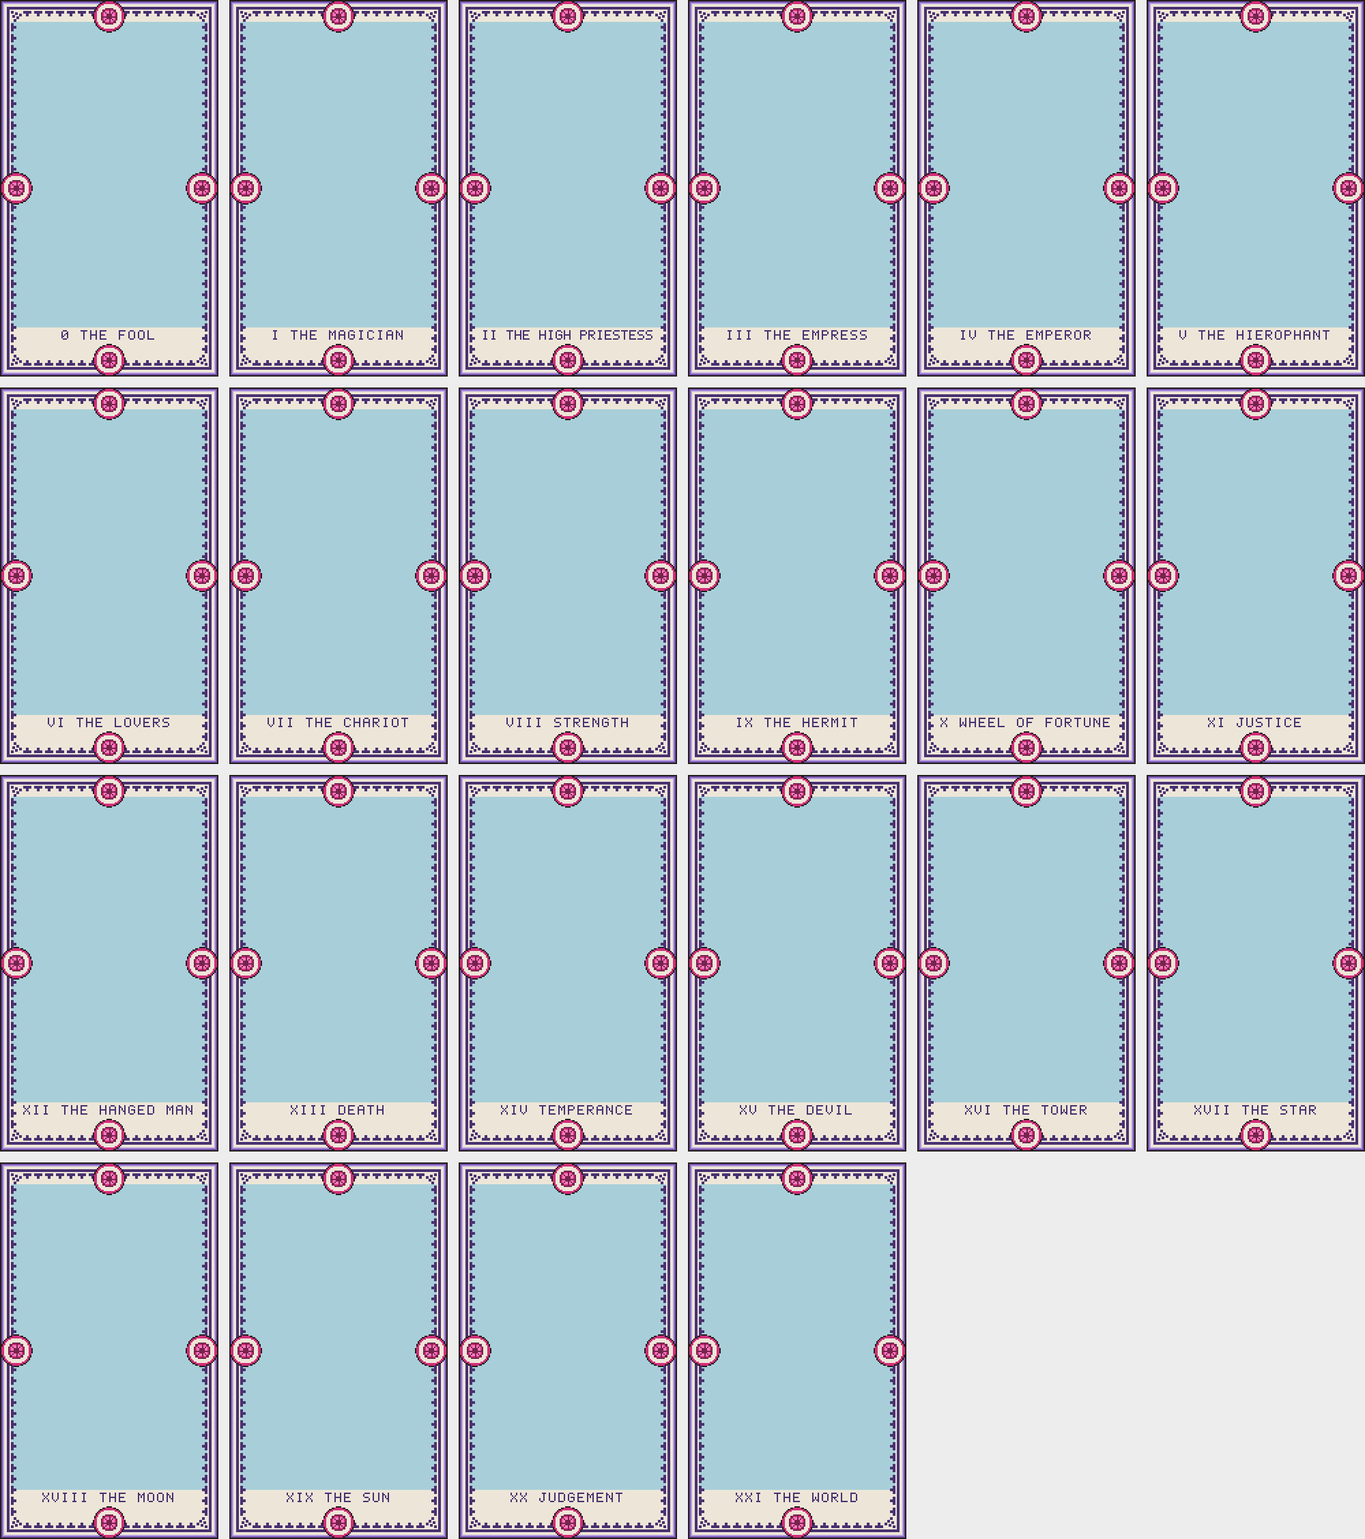
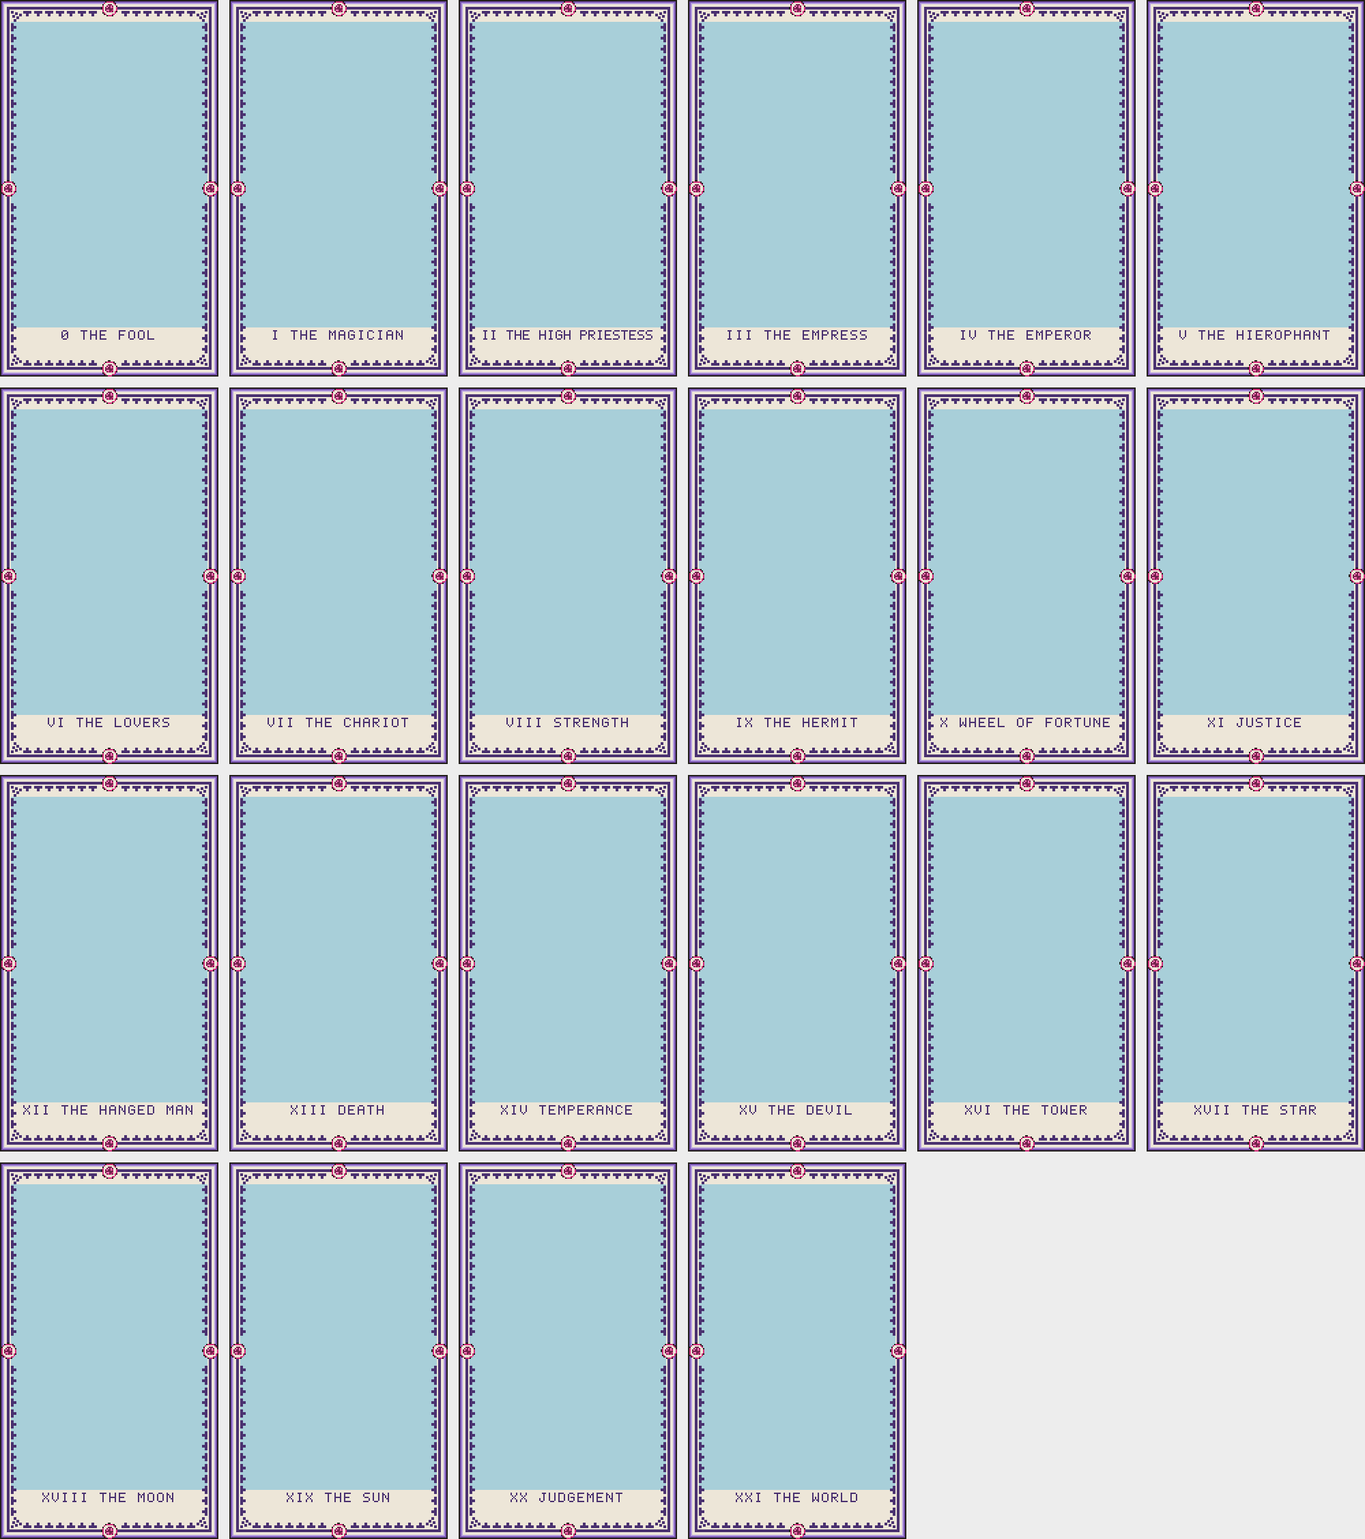
Make the edge medallion a tunable, swappable border piece
With titles now carrying each card's identity, the 24px suit medallions
competed with the labels. Make the medallion configurable via
border.medallion in deck.yaml and --medallion / --medallion-scale flags:

- style: suit | lozenge | none. `suit` is the pip-in-cartouche; `lozenge`
  is a new seed.lozenge diamond bound to the motif bank (suit-colored, an
  abstract gem, less busy than the literal pip); `none` omits it.
- scale: a size multiplier applied with the existing NN _scale_tile. The
  shipped deck defaults to a small suit emblem (scale 0.5).
- compose.build_medallion builds the emblem/lozenge/None; build_border, when
  given no medallion, continues the edge dentils through the medallion slot so
  the frame reads unbroken (horizontal fills exactly; the vertical run's
  non-tile-divisible remainder leaves a ~4px centre gap, rule still continuous).
- build_pip_card / build_major_card gain med_style / med_scale whose defaults
  (suit, 1.0) reproduce the original medallion byte-for-byte, so every existing
  frame and suit-invariance test still describes the shipped output.
- CLI: --medallion and --medallion-scale on cards and majors; cmd_generate's
  border showcase honors the config too.

Tests cover the default==mount equivalence, style/scale builds, the solid
suit-colored lozenge, the continuous border on none (contiguous + symmetric +
one ring), and lozenge suit-invariance. Example sheets refreshed to the small
default.
[…]

diff --git a/src/arcana/cli.py b/src/arcana/cli.py
@@ -27,8 +27,11 @@ from arcana.elements import load_all, audit
 from arcana.seed import seed_deck
 from arcana import layout, field, data
 from arcana.text import load_font
-from arcana.compose import (build_border, render_border, mount, build_pip_card,
-                            build_major_card, check_symmetry, check_contiguous)
+from arcana.compose import (build_border, render_border, build_medallion,
+                            build_pip_card, build_major_card,
+                            check_symmetry, check_contiguous)
+
+MEDALLION_STYLES = ("suit", "lozenge", "none")
 
 
 def cmd_seed(name: str, configs_root: Path, artifacts_root: Path) -> Path:
@@ -61,9 +64,10 @@ def cmd_generate(name: str, scale: int, configs_root: Path, artifacts_root: Path
     print("broken   ", [k for k, v in check_contiguous(frame, geo).items() if not v] or "none")
 
     suits = list(cfg["suit_pips"])
+    med_style, med_scale = _medallion_opts(cfg)
     sheet = np.full((geo.card_h, (geo.card_w + 8) * len(suits), 3), 237, np.uint8)
     for i, suit in enumerate(suits):
-        med = mount(els[cfg["suit_pips"][suit]], els["cartouche"])
+        med = build_medallion(els, cfg["suit_pips"][suit], style=med_style, scale=med_scale)
         m = render_border(pal, geo, els["corner"], els["edge"], med)
         rgb = pal.for_suit(suit).render(m)
         sheet[:, i * (geo.card_w + 8):i * (geo.card_w + 8) + geo.card_w] = rgb
@@ -89,8 +93,19 @@ def _field_for_suit(cfg: dict, suit: str, override: str | None) -> str:
     return spec.get("by_suit", {}).get(suit) or spec.get("default", "plain")
 
 
+def _medallion_opts(cfg: dict, style_override: str | None = None,
+                    scale_override: float | None = None) -> tuple[str, float]:
+    """Medallion (style, scale) from `border.medallion`, CLI override winning —
+    same default-vs-override pattern as layout/field."""
+    spec = cfg.get("border", {}).get("medallion", {})
+    style = style_override or spec.get("style", "suit")
+    scale = scale_override if scale_override is not None else spec.get("scale", 1.0)
+    return style, float(scale)
+
+
 def cmd_cards(name: str, layout_override: str | None, field_override: str | None,
               suit: str | None, all_suits: bool, scale: int, no_labels: bool,
+              med_override: str | None, med_scale_override: float | None,
               configs_root: Path, artifacts_root: Path) -> Path:
     deck = load_deck(name, configs_root)
     pal, geo, cfg = deck.palette, deck.geometry, deck.config
@@ -98,6 +113,7 @@ def cmd_cards(name: str, layout_override: str | None, field_override: str | None
         raise SystemExit(f"unknown layout {layout_override!r}; have {layout.names()}")
     if field_override and field_override not in field.names():
         raise SystemExit(f"unknown field {field_override!r}; have {field.names()}")
+    med_style, med_scale = _medallion_opts(cfg, med_override, med_scale_override)
 
     assets = assets_dir(name, artifacts_root)
     if not assets.exists():
@@ -135,7 +151,8 @@ def cmd_cards(name: str, layout_override: str | None, field_override: str | None
                            if labels_on else (None, None))
             try:
                 m = build_pip_card(pal, geo, els, rank, lname, pip_key, fname,
-                                   pip_cfg, font=font, top=top, bottom=bottom)
+                                   pip_cfg, font=font, top=top, bottom=bottom,
+                                   med_style=med_style, med_scale=med_scale)
             except layout.InvalidPipLayout as e:
                 raise SystemExit(str(e))
             rgb = pal.for_suit(su).render(m)
@@ -151,7 +168,8 @@ def cmd_cards(name: str, layout_override: str | None, field_override: str | None
     return out
 
 
-def cmd_majors(name: str, scale: int, no_labels: bool, configs_root: Path,
+def cmd_majors(name: str, scale: int, no_labels: bool, med_override: str | None,
+               med_scale_override: float | None, configs_root: Path,
                artifacts_root: Path) -> Path:
     """Render the 22 major arcana (labeling half — the figure image is a later
     roadmap item; `build_major_card` leaves the seam)."""
@@ -169,6 +187,7 @@ def cmd_majors(name: str, scale: int, no_labels: bool, configs_root: Path,
     font = load_font(assets / "font") if labels_on else None
     pip_key = cfg["suit_pips"].get("majors")
     fname = _field_for_suit(cfg, "majors", None)
+    med_style, med_scale = _medallion_opts(cfg, med_override, med_scale_override)
 
     out = render_dir(name, artifacts_root) / "majors"
     out.mkdir(parents=True, exist_ok=True)
@@ -181,7 +200,8 @@ def cmd_majors(name: str, scale: int, no_labels: bool, configs_root: Path,
         top, bottom = (data.major_label(number, split=opts["split"], cfg=cfg)
                        if labels_on else (None, None))
         m = build_major_card(pal, geo, els, font, top=top, bottom=bottom,
-                             field_design=fname, pip_key=pip_key)
+                             field_design=fname, pip_key=pip_key,
+                             med_style=med_style, med_scale=med_scale)
         rgb = pal.for_suit("majors").render(m)
         Image.fromarray(rgb).save(out / f"major_{number:02d}.png")
         r, c = divmod(number, cols)
@@ -219,6 +239,10 @@ def build_parser() -> argparse.ArgumentParser:
                    help="NEAREST zoom for the preview sheet only (default: 2)")
     c.add_argument("--no-labels", action="store_true",
                    help="render bare cards, without numeral/title labels")
+    c.add_argument("--medallion", choices=MEDALLION_STYLES, metavar="STYLE",
+                   help="edge medallion: suit | lozenge | none (default: from deck.yaml)")
+    c.add_argument("--medallion-scale", type=float, metavar="F",
+                   help="scale the medallion (e.g. 0.5); default from deck.yaml")
 
     m = sub.add_parser("majors", help="render the 22 major arcana (labeling half)")
     m.add_argument("deck")
@@ -226,6 +250,10 @@ def build_parser() -> argparse.ArgumentParser:
                    help="NEAREST zoom for the preview sheet only (default: 2)")
     m.add_argument("--no-labels", action="store_true",
                    help="render bare cards, without numeral/title labels")
+    m.add_argument("--medallion", choices=MEDALLION_STYLES, metavar="STYLE",
+                   help="edge medallion: suit | lozenge | none (default: from deck.yaml)")
+    m.add_argument("--medallion-scale", type=float, metavar="F",
+                   help="scale the medallion (e.g. 0.5); default from deck.yaml")
 
     s = sub.add_parser("seed", help="(re)write a deck's placeholder tiles")
     s.add_argument("deck")
@@ -239,10 +267,11 @@ def main(argv: list[str] | None = None) -> int:
         cmd_generate(args.deck, args.scale, args.configs_root, args.artifacts_root)
     elif args.command == "cards":
         cmd_cards(args.deck, args.layout, args.field, args.suit, args.all_suits,
-                  args.scale, args.no_labels, args.configs_root, args.artifacts_root)
+                  args.scale, args.no_labels, args.medallion, args.medallion_scale,
+                  args.configs_root, args.artifacts_root)
     elif args.command == "majors":
-        cmd_majors(args.deck, args.scale, args.no_labels,
-                   args.configs_root, args.artifacts_root)
+        cmd_majors(args.deck, args.scale, args.no_labels, args.medallion,
+                   args.medallion_scale, args.configs_root, args.artifacts_root)
     elif args.command == "seed":
         cmd_seed(args.deck, args.configs_root, args.artifacts_root)
     else:

diff --git a/src/arcana/compose.py b/src/arcana/compose.py
@@ -113,15 +113,23 @@ def build_border(geo: Geometry, corner: Element, edge: Element,
     paste(frame, corner_rule(C), 0, 0)                       # beveled corner
 
     # ornament overlay: dentils along each run, staircase in the corner. Only the
-    # top-left quadrant is drawn; the mirror below fills the other three.
+    # top-left quadrant is drawn; the mirror below fills the other three. With no
+    # medallion, the dentils continue through the medallion slot to the mirror
+    # axis, so the border reads unbroken (clip-safe paste trims the last tile).
     x = C
     for _ in range(nh):
         paste(frame, et, x, 0); x += E
     x_med = x
+    if medallion is None:
+        while x < W // 2:
+            paste(frame, et, x, 0); x += E
     y = C
     for _ in range(nv):
         paste(frame, evt, 0, y); y += E
     y_med = y
+    if medallion is None:
+        while y < H // 2:
+            paste(frame, evt, 0, y); y += E
     paste(frame, ct, 0, 0)
 
     frame[:, W // 2:] = frame[:, :W // 2][:, ::-1]
@@ -263,16 +271,17 @@ def build_pip_card(palette: Palette, geo: Geometry, els: dict[str, Element],
                    count: int, layout_name: str, pip_key: str,
                    field_design: str = "plain", pip_cfg: dict | None = None,
                    *, font: Font | None = None, top: str | None = None,
-                   bottom: str | None = None) -> np.ndarray:
+                   bottom: str | None = None, med_style: str = "suit",
+                   med_scale: float = 1.0) -> np.ndarray:
     """A minor-arcana pip card as one global index matrix: the development
-    (field + pips) with the border (the suit's pip mounted in the cartouche) on
-    top, plus optional labels UNDER the border. Suit-invariant when unlabelled —
-    colour is applied by rendering with `palette.for_suit(...)`; a suit-name
-    title legitimately varies per suit. With no `font` the labels are skipped,
-    so the base card is unchanged."""
+    (field + pips) with the border (the suit medallion mounted in the cartouche)
+    on top, plus optional labels UNDER the border. Suit-invariant when unlabelled
+    — colour is applied by rendering with `palette.for_suit(...)`; a suit-name
+    title legitimately varies per suit. Defaults (`font=None`, `med_style="suit"`,
+    `med_scale=1.0`) reproduce the base card byte-for-byte."""
     content = build_development(palette, geo, els, count, layout_name, pip_key,
                                 field_design, pip_cfg)
-    med = mount(els[pip_key], els["cartouche"])
+    med = build_medallion(els, pip_key, style=med_style, scale=med_scale)
     border = render_border(palette, geo, els["corner"], els["edge"], med)
     label = (palette.bind(build_label(geo, font, top=top, bottom=bottom), "border")
              if font is not None and (top or bottom) else None)
@@ -283,12 +292,13 @@ def build_pip_card(palette: Palette, geo: Geometry, els: dict[str, Element],
 def build_major_card(palette: Palette, geo: Geometry, els: dict[str, Element],
                      font: Font, *, top: str | None = None,
                      bottom: str | None = None, field_design: str = "plain",
-                     pip_key: str | None = None) -> np.ndarray:
+                     pip_key: str | None = None, med_style: str = "suit",
+                     med_scale: float = 1.0) -> np.ndarray:
     """A major-arcana card (labeling half): the mural + border + label floating
     ON TOP of the art, same place as a minor's title. The `figure`-bank image is
     a later roadmap item — it pastes into the mural (see `build_mural`)."""
     content = build_mural(palette, geo, els, field_design)
-    med = mount(els[pip_key], els["cartouche"]) if pip_key else None
+    med = build_medallion(els, pip_key, style=med_style, scale=med_scale)
     border = render_border(palette, geo, els["corner"], els["edge"], med)
     label = (palette.bind(build_label(geo, font, top=top, bottom=bottom), "border")
              if top or bottom else None)
@@ -307,6 +317,30 @@ def mount(pip: Element, cartouche: Element) -> Element:
     bank = next(iter(cartouche.layers))
     return Element(name=f"{pip.name}@{cartouche.name}", role="medallion",
                    size=c.shape, layers={bank: c})
+
+
+def build_medallion(els: dict[str, Element], pip_key: str | None, *,
+                    style: str = "suit", scale: float = 1.0) -> Element | None:
+    """The edge medallion as a `motif`-bound Element (suit-coloured), or None.
+    `suit` is the pip mounted in the cartouche; `lozenge` is an abstract diamond;
+    `none` omits it (and `build_border` continues the ornament through the slot).
+    `scale` resizes the emblem with the index-preserving NN resize — the knob for
+    dialing the medallion down so it no longer competes with the title."""
+    if style == "none" or (style == "suit" and pip_key is None):
+        return None
+    if style == "suit":
+        layer = next(iter(mount(els[pip_key], els["cartouche"]).layers.values()))
+    elif style == "lozenge":
+        from arcana.seed import lozenge
+        base = els["cartouche"].layers["motif"].shape[0]     # match the cartouche size
+        layer = lozenge(base)
+    else:
+        raise ValueError(f"unknown medallion style {style!r}; "
+                         "expected suit | lozenge | none")
+    if scale != 1.0:
+        layer = _scale_tile(layer, scale)
+    return Element(name=f"medallion.{style}", role="medallion",
+                   size=layer.shape, layers={"motif": layer})
 
 
 # ---------------------------------------------------------------- checks

diff --git a/tests/test_deck.py b/tests/test_deck.py
@@ -277,6 +277,72 @@ def test_band_rects_stay_inside_the_bands(ctx):
     assert nx0 == tx0 == geo.corner and nx1 == tx1 == geo.card_w - geo.corner
 
 
+# --- medallions ---------------------------------------------------------
+def test_default_medallion_matches_mount(ctx):
+    """The default (suit, scale 1.0) reproduces the old `mount(pip, cartouche)`
+    medallion byte-for-byte — so every pre-existing frame/suit-invariance test
+    still describes the shipped output."""
+    _, _, cfg, els = ctx
+    made = compose.build_medallion(els, cfg["suit_pips"]["cups"])
+    mounted = compose.mount(els[cfg["suit_pips"]["cups"]], els["cartouche"])
+    assert np.array_equal(made.layers["motif"], mounted.layers["motif"])
+
+
+def test_medallion_styles_and_scale(ctx):
+    """suit and lozenge build card-legal local-index medallions; none omits it;
+    a scale < 1 yields a smaller emblem (the knob that shrinks it)."""
+    from arcana.palette import MAX_LOCAL
+    _, _, cfg, els = ctx
+    pk = cfg["suit_pips"]["cups"]
+    assert compose.build_medallion(els, pk, style="none") is None
+    full = compose.build_medallion(els, pk, style="suit", scale=1.0)
+    small = compose.build_medallion(els, pk, style="suit", scale=0.5)
+    loz = compose.build_medallion(els, pk, style="lozenge", scale=0.5)
+    for m in (full, small, loz):
+        assert int(m.layers["motif"].max()) <= MAX_LOCAL
+    assert small.layers["motif"].shape[0] < full.layers["motif"].shape[0]
+
+
+def test_lozenge_is_a_solid_suit_gem(ctx):
+    """The lozenge is a solid diamond — LINE outline over a MID fill (motif bank
+    => suit colour), transparent box corners. A hollow or off-slot gem is the bug."""
+    from arcana.palette import T, LINE, MID
+    _, _, cfg, els = ctx
+    loz = compose.build_medallion(els, cfg["suit_pips"]["cups"], style="lozenge").layers["motif"]
+    assert set(np.unique(loz).tolist()) <= {T, LINE, MID}
+    S = loz.shape[0]
+    assert loz[S // 2, S // 2] == MID           # solid centre
+    assert loz[0, 0] == T                        # transparent corner
+
+
+def test_no_medallion_continues_the_border(ctx):
+    """style=none continues the edge ornament through the medallion slot, and the
+    frame stays one contiguous, symmetric ring — a broken border from the fill is
+    exactly this bug."""
+    from arcana.palette import DARK
+    _, geo, _, els = ctx
+    f, _ = compose.build_border(geo, els["corner"], els["edge"], None)
+    assert all(compose.check_contiguous(f, geo).values())
+    assert all(compose.check_symmetry(f).values())
+    # dentil ornament now reaches the top-edge centre (rows below the rule, which
+    # were bare before the fill) — proves the slot is filled, not left blank
+    cx = geo.card_w // 2
+    assert (f[8:12, cx - 6:cx + 6] == DARK).any()
+
+
+def test_lozenge_card_is_suit_invariant(ctx):
+    """A lozenge card's index matrix is identical across suits (motif binding is
+    index-level) — the suit is a LUT swap, same as everything else."""
+    pal, geo, cfg, els = ctx
+    base = compose.build_pip_card(pal, geo, els, 5, "saltire", cfg["suit_pips"]["cups"],
+                                  med_style="lozenge", med_scale=0.5)
+    for suit in ("wands", "swords", "pentacles"):
+        other = compose.build_pip_card(pal.for_suit(suit), geo, els, 5, "saltire",
+                                       cfg["suit_pips"]["cups"], med_style="lozenge",
+                                       med_scale=0.5)
+        assert np.array_equal(base, other)
+
+
 # --- asset io -----------------------------------------------------------
 def test_rgb_png_rejected(tmp_path, ctx):
     """Build the fixture from a loaded element — assets may be stored as

diff --git a/src/arcana/seed.py b/src/arcana/seed.py
@@ -55,6 +55,20 @@ def roundel(S: int = 24) -> np.ndarray:
     return c
 
 
+def lozenge(S: int = 24) -> np.ndarray:
+    """A heraldic lozenge — a solid diamond, LINE outline over a MID fill, on a
+    transparent field. An abstract medallion: bound to the `motif` bank it reads
+    as a suit-coloured gem. The body is solid so the frame rule can't bisect it;
+    the box corners stay transparent (the rule runs on, uninterrupted, behind)."""
+    c = np.zeros((S, S), np.uint8)
+    yy, xx = np.mgrid[0:S, 0:S]
+    half = (S - 1) / 2
+    d = (np.abs(xx - half) + np.abs(yy - half)) / (S / 2)   # L1 radius: 0 centre, 1 at edge
+    c[d <= 1.0] = LINE
+    c[d <= 1.0 - 1.5 / (S / 2)] = MID
+    return c
+
+
 # ---------------------------------------------------------------- pips (ASCII)
 # Hand-authored, kept in code. Glyphs: . transparent  @ line  ' paper
 # % dark  + mid  - light. Each is 16x16 and self-symmetric about x=7.5 so odd

diff --git a/AGENTS.md b/AGENTS.md
@@ -165,6 +165,20 @@ sword blade). Opacity is the fix; the ring is what makes it pop. Sized at 24
 (tested against 20, which clipped pip corners and doubled the pentacle's ring).
 Asserted at load via `opaque: true`.
 
+**Configurable** (`compose.build_medallion`, `border.medallion` in deck.yaml,
+`--medallion`/`--medallion-scale`). Once titles carry a card's identity the full
+medallion competes with them, so it's tunable:
+- `style: suit | lozenge | none` — the pip cartouche, an abstract suit-coloured
+  diamond (`seed.lozenge`, bound to `motif`), or nothing.
+- `scale` — a size multiplier via the NN `_scale_tile`; the deck ships `0.5`.
+- `none` — `build_border` continues the edge dentils through the medallion slot
+  (horizontal fills exactly; the vertical run's non-tile-divisible remainder —
+  the reason the slot exists — leaves a ~4px centre gap, rule still continuous).
+
+The `medallion.horizontal/vertical` slot stays in `geometry` regardless — it's
+load-bearing for edge-tile divisibility. Defaults (`suit`, `scale 1.0`)
+reproduce the original medallion byte-for-byte.
+
 ### Assets: YAML holds structure, tiles hold pixels
 
 `deck.yaml` holds sizes, roles, bank bindings, the pip lattice. Pixels do not

diff --git a/README.md b/README.md
@@ -65,6 +65,10 @@ Everything is written under `decks/artifacts/<deck>/` (git-ignored).
   Content comes from engine defaults overridable in a `labels:` block; a combined
   title sits in the bottom band by default (`split: true` splits it across the
   numeral and title bands). `--no-labels` renders bare cards for comparison.
+  - **medallion** — the suit emblem at the edge midpoints is tunable
+    (`border.medallion` in `deck.yaml`; `--medallion suit|lozenge|none` and
+    `--medallion-scale F`): a scaled suit cartouche, an abstract suit-colored
+    lozenge, or none (the border ornament then continues through the space).
 - `arcana majors <deck>` renders the 22 major arcana with labels (the figure
   image in the art window is a later roadmap item; the builder leaves the seam).
 - `arcana seed <deck>` just (re)writes the placeholder tiles.
